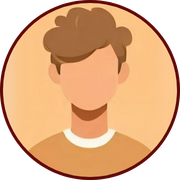
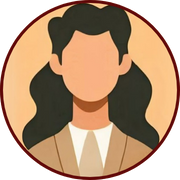
Fixed Changeprofile

diff --git a/FRONTEND/ChangeProfile.py b/FRONTEND/ChangeProfile.py
@@ -347,6 +347,8 @@ class Ui_ChangeProfile(object):
     def select_profile_picture(self, profile_picture):
         self.selected_profile_picture = profile_picture  # Step 2: Update the variable
         print(f"Selected profile picture: {self.selected_profile_picture}")  # Debug statement
+        # Update the default profile picture preview
+        self.CP_DefaultProfile.setPixmap(QtGui.QPixmap(os.path.join(Change_Profile_assets_folder, self.selected_profile_picture)))
 
     def save_changes(self):
         if self.selected_profile_picture:
